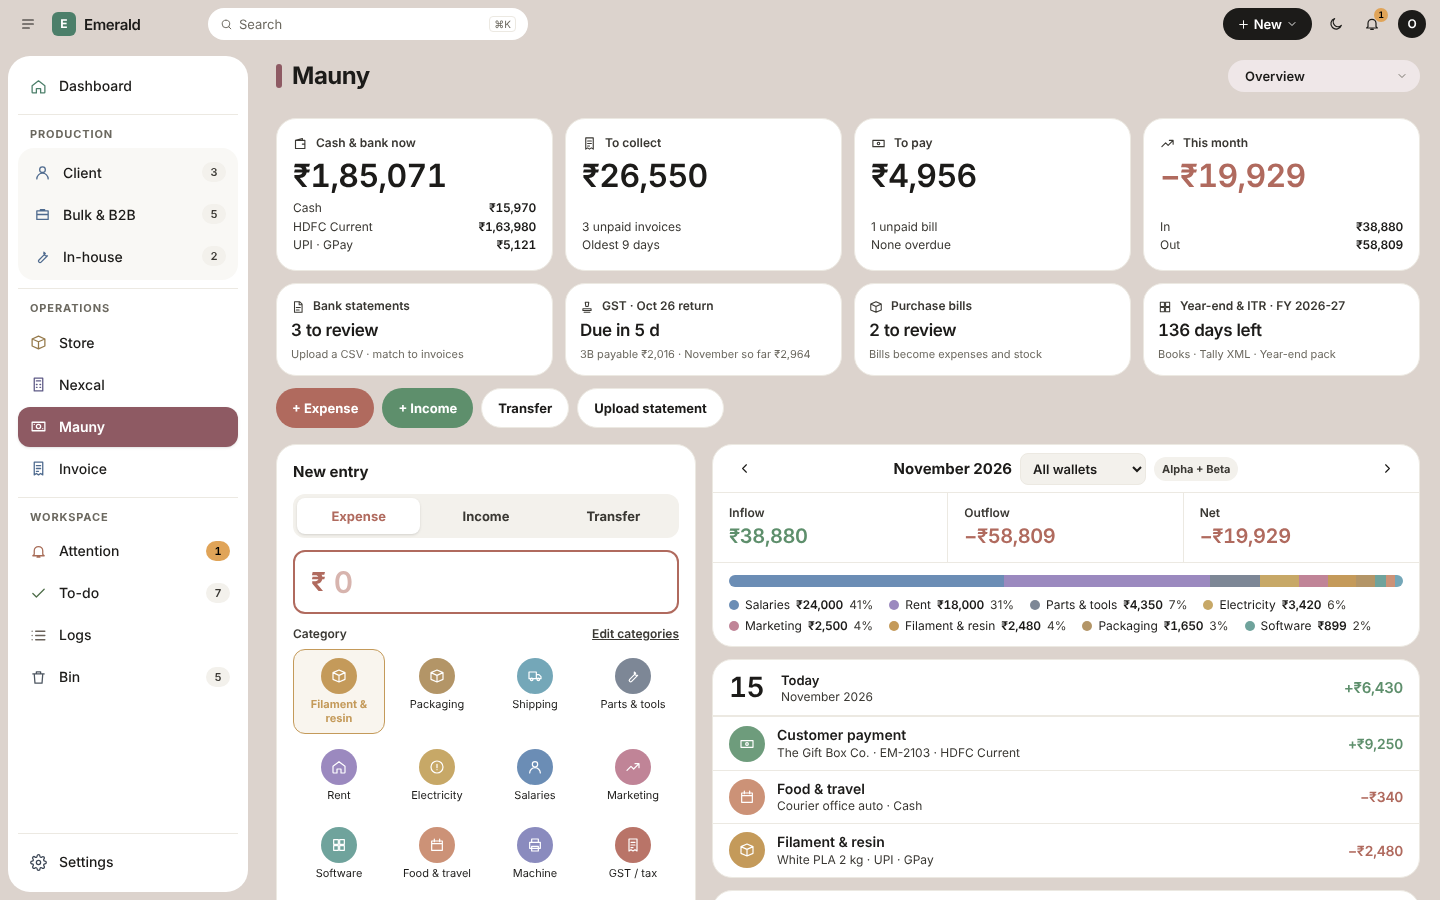
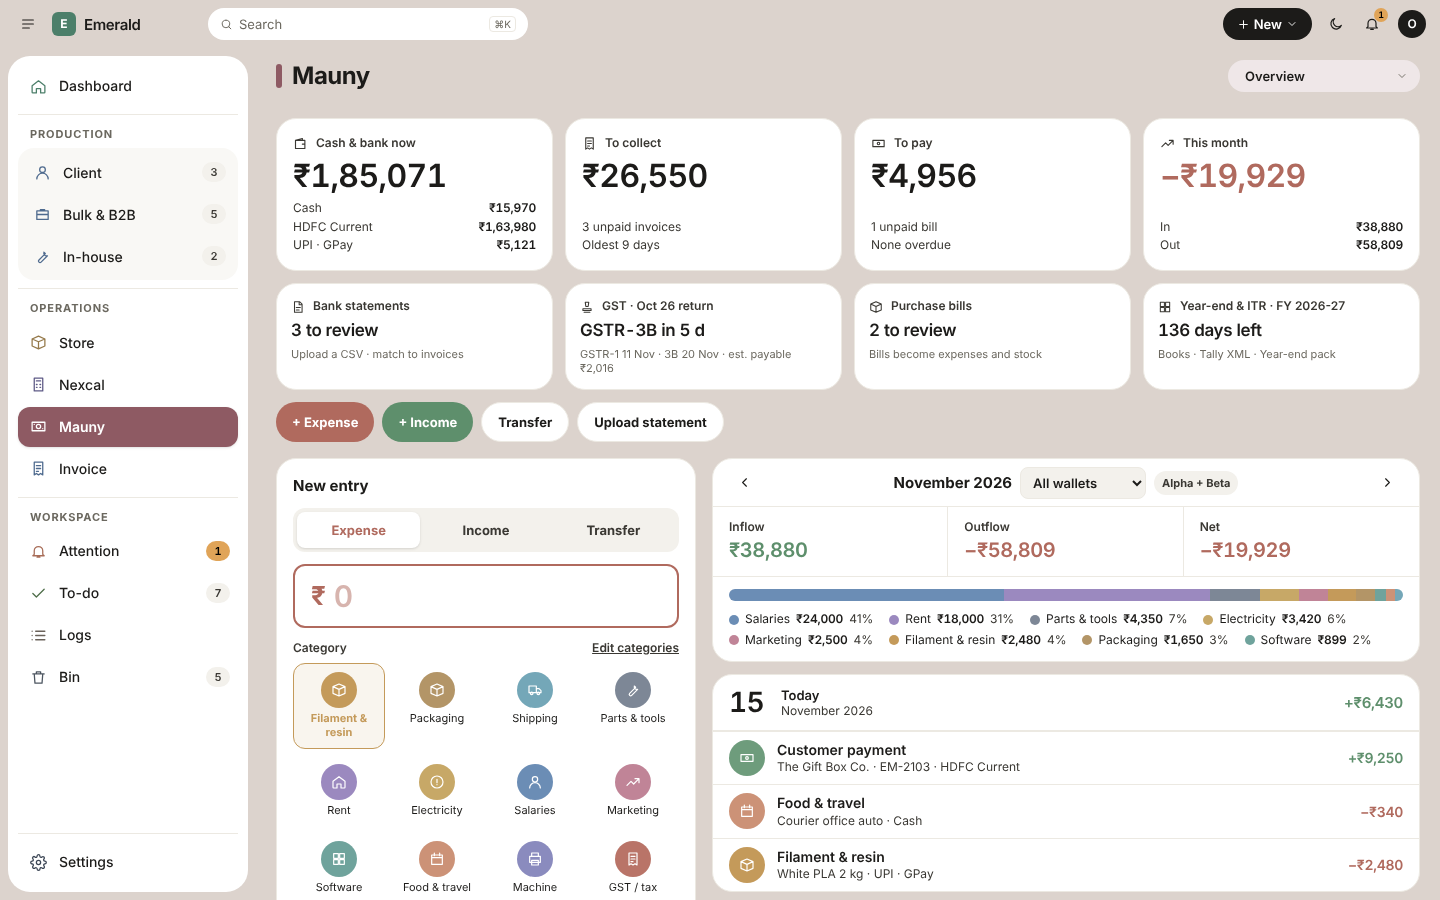
Mauny cards reflow with the detail panel; GST card shows both due dates; audit report corrections
Claude-Session: https://claude.ai/code/session_01RcAsmLZu5txJoJpnRfFqT9

Changed region(s): [[0.1875, 0.3422, 1.0, 1.0], [0.2812, 0.6844, 0.4688, 0.9956], [0.4062, 0.56, 0.4375, 0.6222]]

diff --git a/app/src/routes/MaunyHome.tsx b/app/src/routes/MaunyHome.tsx
@@ -66,7 +66,7 @@ function BigCard({ href, icon, label, value, tone, lines, more }: { href: string
   return (
     <a href={href} class="group rounded-[var(--radius-card)] bg-c0 border border-line p-4 flex flex-col gap-2 min-w-0 hover:border-c2 transition-colors">
       <span class="flex items-center gap-2 text-[12px] font-semibold text-c3 min-w-0"><Icon name={icon} size={15} /><span class="truncate">{label}</span></span>
-      <span class="num text-[26px] md:text-[32px] leading-none font-bold truncate" style={tone ? { color: tone } : undefined}>{value}</span>
+      <span class="num text-[26px] @3xl:text-[32px] leading-none font-bold whitespace-nowrap" style={tone ? { color: tone } : undefined}>{value}</span>
       <span class="flex flex-col gap-0.5 mt-auto">
         {lines.map(([k, v]) => <span key={k} class="flex items-center justify-between gap-2 text-[12px] text-c3 min-w-0"><span class="truncate">{k}</span>{v && <b class="num font-semibold text-c4 whitespace-nowrap">{v}</b>}</span>)}
         {more && <span class="t-meta">{more}</span>}
@@ -79,7 +79,7 @@ function MiniCard({ href, icon, label, value, sub, tone }: { href: string; icon:
   return (
     <a href={href} class="rounded-[var(--radius-card)] bg-c0 border border-line p-3.5 flex flex-col gap-1 min-w-0 hover:border-c2 transition-colors">
       <span class="flex items-center gap-2 text-[12px] font-semibold text-c3 min-w-0"><Icon name={icon} size={14} /><span class="truncate">{label}</span></span>
-      <span class="num text-[17px] font-bold truncate" style={tone ? { color: tone } : undefined}>{value}</span>
+      <span class="num text-[17px] font-bold" style={tone ? { color: tone } : undefined}>{value}</span>
       <span class="t-meta line-clamp-2">{sub}</span>
     </a>
   );
@@ -165,10 +165,12 @@ export function MaunyHome() {
   /* GST: the return being filed now is last month's (GSTR-1 by the 11th, GSTR-3B by the 20th, monthly filer). */
   const [ty, tm] = t0.split("-").map(Number), pk = `${tm === 1 ? ty - 1 : ty}-${String(tm === 1 ? 12 : tm - 1).padStart(2, "0")}`;
   const gstOn = can("gst");
-  const gPrev = gstOn ? gstMonths(fyOf(pk + "-01")).find((x) => x.k === pk) : undefined, gNow = gstOn ? gstMonths(fyOf(t0)).find((x) => x.k === nowMonth) : undefined;
-  const due3b = `${nowMonth}-20`, left3b = daysBetween(t0, due3b);
-  const gstState = !gPrev ? "" : gPrev.filed.locked ? "Filed" : !gPrev.inv.length && !gPrev.purch.length ? "No activity" : left3b < 0 ? `Overdue ${-left3b} d` : `Due in ${left3b} d`;
-  const gstTone = gstState.startsWith("Overdue") ? RED : gstState === "Filed" || gstState === "No activity" ? GREEN : undefined;
+  const gPrev = gstOn ? gstMonths(fyOf(pk + "-01")).find((x) => x.k === pk) : undefined;
+  /* A return is due even when nothing happened (a nil return), so the countdown always shows until it is marked filed. */
+  const due1 = `${nowMonth}-11`, due3b = `${nowMonth}-20`, left1 = daysBetween(t0, due1), left3b = daysBetween(t0, due3b);
+  const gstState = !gPrev ? "" : gPrev.filed.locked ? "Filed" : left3b < 0 ? `Overdue ${-left3b} d` : left1 >= 0 ? `GSTR-1 in ${left1} d` : `GSTR-3B in ${left3b} d`;
+  const gstTone = gstState.startsWith("Overdue") ? RED : gstState === "Filed" ? GREEN : undefined;
+  const dd = (d: string) => new Date(d + "T00:00:00").toLocaleDateString("en-IN", { day: "numeric", month: "short" });
   const net = (m: { cgst: number; sgst: number; igst: number; itc: number }) => m.cgst + m.sgst + m.igst - m.itc;
   const fy = fyOf(t0), fyEnd = daysBetween(t0, fyWindow(fy)[1]);
   const openForm = (k: "out" | "in" | "transfer") => { setType(k); setCat(catsSig.value.find((c) => c.dir === (k === "in" ? "in" : "out"))?.k ?? ""); setEditCats(false); setEditing(null); setFormOpen(true);
@@ -177,16 +179,17 @@ export function MaunyHome() {
   const inp = "h-10 px-3 rounded-lg border border-line bg-c1 text-[14px] w-full min-w-0 outline-none focus:border-c3";
   return (
     <Page title="Mauny" tabs={isExternal() ? undefined : MAUNY_TABS.filter((t) => can(moduleOf(t.href)))} detail={inspectSig.value ? <Peeked /> : null}>
+      <div class="@container flex flex-col gap-4">
       <section aria-label="Money at a glance" class="flex flex-col gap-3">
-        <div class="grid grid-cols-2 xl:grid-cols-4 gap-3">
+        <div class="grid grid-cols-2 @3xl:grid-cols-4 gap-3">
           <BigCard href="/mauny/daybook" icon="wallet" label="Cash & bank now" value={inr(cashNow)} tone={cashNow < 0 ? RED : undefined} lines={accs.slice(0, 3).map((a) => [a.name, inr(balanceOf(a.id))])} more={accs.length > 3 ? `+${accs.length - 3} more wallets` : ""} />
           <BigCard href="/work/invoice" icon="receipt" label="To collect" value={inr(toCollect)} tone={oldest > 75 ? RED : undefined} lines={[[`${invDues.length} unpaid invoice${invDues.length === 1 ? "" : "s"}`, ""], oldest ? [`Oldest ${oldest} days`, ""] : ["All settled", ""]]} />
           <BigCard href="/mauny/finance" icon="cash" label="To pay" value={inr(toPay)} tone={lateExp ? RED : undefined} lines={[[`${unpaidExp.length} unpaid bill${unpaidExp.length === 1 ? "" : "s"}`, ""], lateExp ? [`${lateExp} overdue`, ""] : ["None overdue", ""]]} />
           <BigCard href="/mauny/finance" icon="trend" label="This month" value={`${inNow - outNow >= 0 ? "+" : "−"}${inr(Math.abs(inNow - outNow))}`} tone={inNow - outNow >= 0 ? GREEN : RED} lines={[["In", inr(inNow)], ["Out", inr(outNow)]]} />
         </div>
-        <div class="grid grid-cols-2 xl:grid-cols-4 gap-3">
+        <div class="grid grid-cols-2 @3xl:grid-cols-4 gap-3">
           <MiniCard href="/mauny/accounts" icon="doc" label="Bank statements" value={stmtReview ? `${stmtReview} to review` : "All reviewed"} sub="Upload a CSV · match to invoices" tone={stmtReview ? undefined : GREEN} />
-          {gstOn && gPrev && gNow && <MiniCard href="/mauny/gst" icon="stamp" label={`GST · ${gPrev.label} return`} value={gstState} sub={`3B payable ${inr(net(gPrev))} · ${monthName(nowMonth).split(" ")[0]} so far ${inr(net(gNow))}`} tone={gstTone} />}
+          {gstOn && gPrev && <MiniCard href="/mauny/gst" icon="stamp" label={`GST · ${gPrev.label} return`} value={gstState} sub={`GSTR-1 ${dd(due1)} · 3B ${dd(due3b)} · ${!gPrev.inv.length && !gPrev.purch.length ? "nil return" : `est. ${net(gPrev) >= 0 ? "payable" : "credit"} ${inr(Math.abs(net(gPrev)))}`}`} tone={gstTone} />}
           <MiniCard href="/mauny/purchases" icon="box" label="Purchase bills" value={billsReview ? `${billsReview} to review` : "All logged"} sub="Bills become expenses and stock" tone={billsReview ? undefined : GREEN} />
           {can("books") && <MiniCard href="/mauny/books" icon="grid" label={`Year-end & ITR · FY ${fy}`} value={`${fyEnd} days left`} sub="Books · Tally XML · Year-end pack" />}
         </div>
@@ -197,8 +200,8 @@ export function MaunyHome() {
           <a href="/mauny/accounts" class="h-10 px-4 rounded-full text-[13px] font-bold border border-line bg-c0 inline-flex items-center">Upload statement</a>
         </div>}
       </section>
-      <div class="grid gap-4 lg:grid-cols-[minmax(340px,420px)_minmax(0,1fr)] items-start">
-        {full && (!isPhone.value || formOpen) && <div class="rounded-[var(--radius-card)] bg-c0 border border-line p-4 flex flex-col gap-3 lg:sticky lg:top-0">
+      <div class="grid gap-4 @4xl:grid-cols-[minmax(340px,420px)_minmax(0,1fr)] items-start">
+        {full && (!isPhone.value || formOpen) && <div class="rounded-[var(--radius-card)] bg-c0 border border-line p-4 flex flex-col gap-3 @4xl:sticky @4xl:top-0">
           <div class="flex items-center justify-between"><span class="text-[15px] font-bold">New entry</span>{isPhone.value && <button onClick={() => setFormOpen(false)} class="text-[12px] font-semibold underline cursor-pointer !min-h-0">Hide</button>}</div>
           <div class="flex gap-1 p-1 rounded-xl bg-c1">{seg("out", "Expense", RED)}{seg("in", "Income", GREEN)}{seg("transfer", "Transfer", "#6B8DB5")}</div>
           <label class="flex items-center gap-2 h-16 px-4 rounded-xl border-2" style={{ borderColor: hue }}>
@@ -308,6 +311,7 @@ export function MaunyHome() {
             );
           })}
         </div>
+      </div>
       </div>
     </Page>
   );
